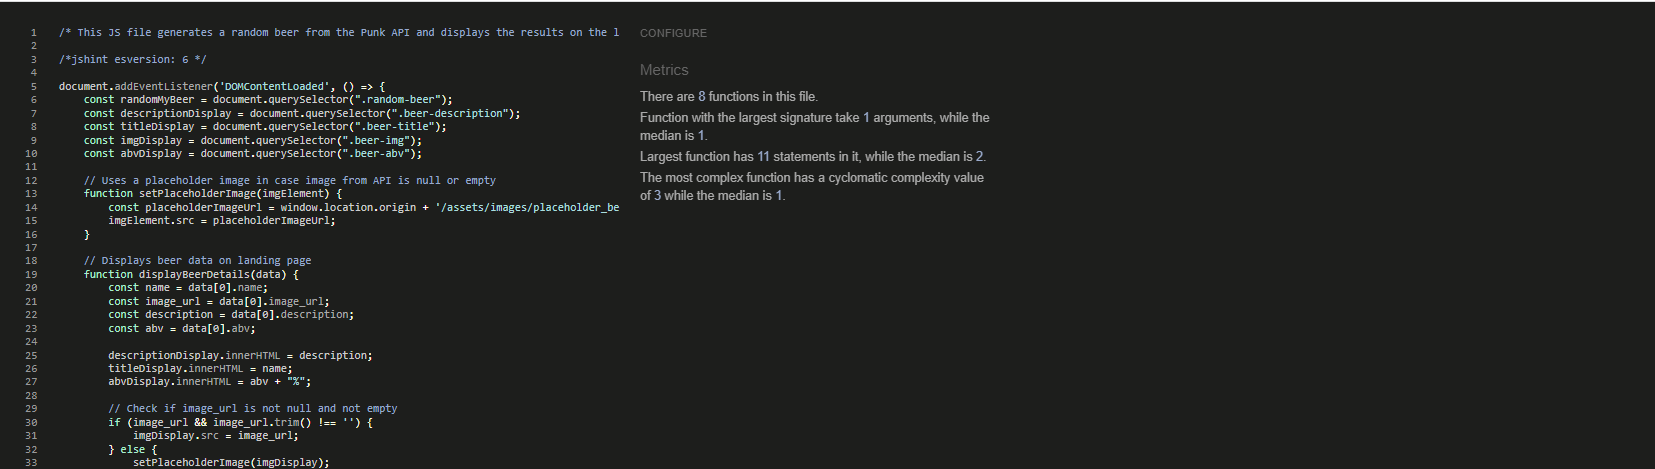
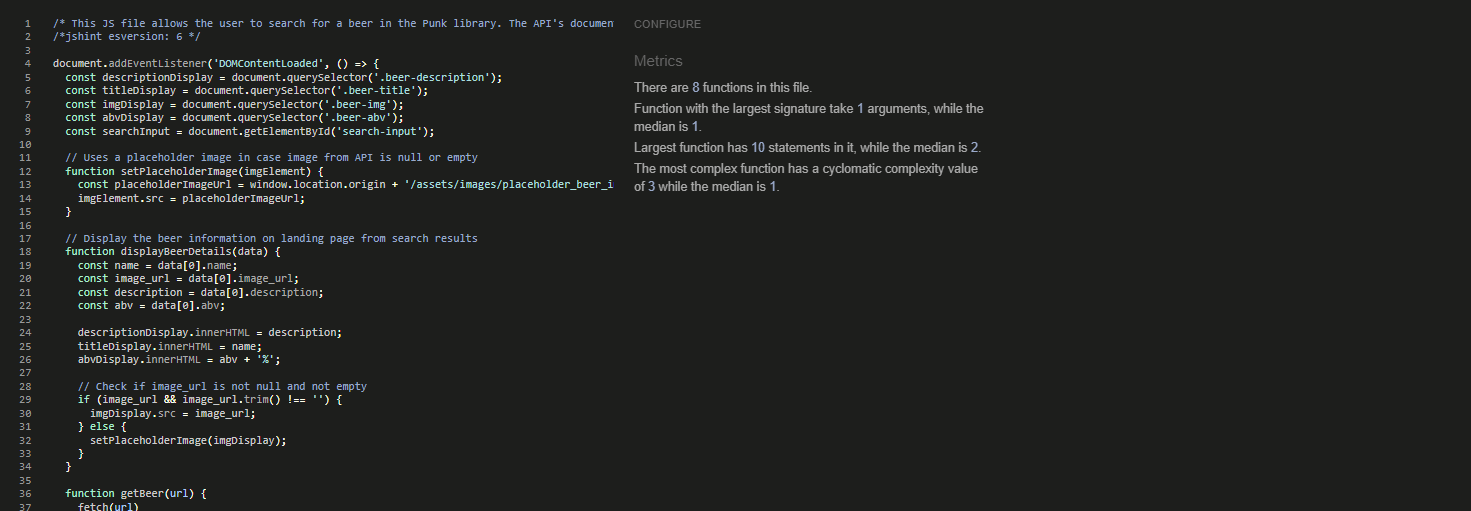
add fix to search beer.js

Changed region(s): [[0.0, 0.0896, 0.673, 1.0], [0.0, 0.0, 1.0, 0.0896]]

diff --git a/assets/js/searchBeer.js b/assets/js/searchBeer.js
@@ -1,60 +1,56 @@
-/* This JS file generates a random beer from the Punk API and displays the results on the landing page. The API's documentation can be found here https://punkapi.com/documentation/v2 */
-
+/* This JS file allows the user to search for a beer in the Punk library. The API's documentation can be found here https://punkapi.com/documentation/v2 */
 /*jshint esversion: 6 */
 
 document.addEventListener('DOMContentLoaded', () => {
-    const randomMyBeer = document.querySelector(".random-beer");
-    const descriptionDisplay = document.querySelector(".beer-description");
-    const titleDisplay = document.querySelector(".beer-title");
-    const imgDisplay = document.querySelector(".beer-img");
-    const abvDisplay = document.querySelector(".beer-abv");
+  const descriptionDisplay = document.querySelector('.beer-description');
+  const titleDisplay = document.querySelector('.beer-title');
+  const imgDisplay = document.querySelector('.beer-img');
+  const abvDisplay = document.querySelector('.beer-abv');
+  const searchInput = document.getElementById('search-input');
 
-    // Uses a placeholder image in case image from API is null or empty 
-    function setPlaceholderImage(imgElement) {
-        const placeholderImageUrl = window.location.origin + '/assets/images/placeholder_beer_image.png';
-        imgElement.src = placeholderImageUrl;
+  // Uses a placeholder image in case image from API is null or empty
+  function setPlaceholderImage(imgElement) {
+    const placeholderImageUrl = window.location.origin + '/assets/images/placeholder_beer_image.png';
+    imgElement.src = placeholderImageUrl;
+  }
+
+  // Display the beer information on landing page from search results
+  function displayBeerDetails(data) {
+    const name = data[0].name;
+    const image_url = data[0].image_url;
+    const description = data[0].description;
+    const abv = data[0].abv;
+
+    descriptionDisplay.innerHTML = description;
+    titleDisplay.innerHTML = name;
+    abvDisplay.innerHTML = abv + '%';
+
+    // Check if image_url is not null and not empty
+    if (image_url && image_url.trim() !== '') {
+      imgDisplay.src = image_url;
+    } else {
+      setPlaceholderImage(imgDisplay);
     }
+  }
 
-    // Displays beer data on landing page 
-    function displayBeerDetails(data) {
-        const name = data[0].name;
-        const image_url = data[0].image_url;
-        const description = data[0].description;
-        const abv = data[0].abv;
+  function getBeer(url) {
+    fetch(url)
+      .then(response => response.json())
+      .then(data => {
+        displayBeerDetails(data);
+      })
+      .catch(error => {
+        console.error('Error fetching beer data:', error);
+        setPlaceholderImage(imgDisplay);
+      });
+  }
 
-        descriptionDisplay.innerHTML = description;
-        titleDisplay.innerHTML = name;
-        abvDisplay.innerHTML = abv + "%";
-
-        // Check if image_url is not null and not empty
-        if (image_url && image_url.trim() !== '') {
-            imgDisplay.src = image_url;
-        } else {
-            setPlaceholderImage(imgDisplay);
-        }
-    }
-
-    // Gets beer data from API 
-    function getBeer(url) {
-        fetch(url)
-            .then(response => response.json())
-            .then(data => {
-                displayBeerDetails(data);
-            })
-            .catch(error => {
-                console.error('Error fetching beer data:', error);
-                setPlaceholderImage(imgDisplay);
-            });
-    }
-
-    // Random beer event listener. Generates random beer when button is clicked on landing page
-    randomMyBeer.addEventListener('click', () => {
-        const randomUrl = 'https://api.punkapi.com/v2/beers/random';
-        getBeer(randomUrl);
-    });
-
-    // Generates a random beer on page load
-    const randomUrl = 'https://api.punkapi.com/v2/beers/random';
-    getBeer(randomUrl);
-
+  // Search event listener which searches for a beer when user inputs in search bar
+  searchInput.addEventListener('input', event => {
+    const searchTerm = event.target.value.trim();
+    const searchUrl = `https://api.punkapi.com/v2/beers?beer_name=${encodeURIComponent(
+      searchTerm
+    )}`;
+    getBeer(searchUrl);
+  });
 });

diff --git a/index.html b/index.html
@@ -66,7 +66,8 @@
             <div class="col-sm-6">
                 <div class="row">
                     <div class="col-6"><img class="beer-img" alt="Brewdog beer image"
-                            src="assets/images/beer-loading.png"></div>
+                            src="assets/images/placeholder_beer_image.png">
+                    </div>
                     <div class="col-6">
                         <h3 class="beer-title">Fetching beer...</h3>
                         <p class="beer-description mt-3"></p>

diff --git a/README.md b/README.md
@@ -191,7 +191,7 @@ Languages
 * HTML
 * CSS
 
-#### HTML AND CSS
+#### Frameworks, Libraries & Tools
 
 * Balsamiq for wireframe designs 
 * Google Fonts for fonts
@@ -202,7 +202,10 @@ Languages
 * Microsoft Bing Image Generator (logo)
 * Compressor.io to losslessy reduce image size
 * Favicon.io
-
+* Am I Responsive
+* Font Awesome
+* Git and Github
+* WC3 Validator, Jigsaw W3 Validator, JShint, Wave Validator, Lighthouse
 
 ## Testing
 
@@ -324,18 +327,20 @@ The website was tested onthe following browsers:
 
 ### Testing User Stories
 
-#### New Students
+#### New to the brand Brewdog
 
-1. I want to know how to get to the gym, preferrably via an embedded map on the contact page
+1. I want to know more about the range of beers brewdog sells
 
 | **Feature** | **Action** | **Expected Result** | **Actual Result** |
 |-------------|------------|---------------------|-------------------|
-| Map | Visit contact page | Loads a Google map of the gym and has the address in text format | Works as expected |
-| Footer/Header | Click on "contact" link in header or footer | Takes user to contact page where address is | Works as expected |
+| Random Beer | Random Brewdog beer appears on homepage | Beer with name, image and information loads | Works as expected |
+| Search beer | Search for a beer on homepage | Input "alpha" to find Alpha Dog beer | Works as expected
+
 
 <details>
-<summary>Find Map</summary>
-<img src="https://github.com/ouzifeng/bjj-gym/blob/main/docs/features/map.png">
+<summary>Random & Search Beer</summary>
+<img src="https://github.com/ouzifeng/CI_PP2_QUIZ/blob/main/docs/user-stories/random-beer.png">
+<img src="https://github.com/ouzifeng/CI_PP2_QUIZ/blob/main/docs/user-stories/search-beer.png">
 </details>
 
 2. I want to know how much it will cost me on a monthly or class by class basis, and whether there is a free trial
